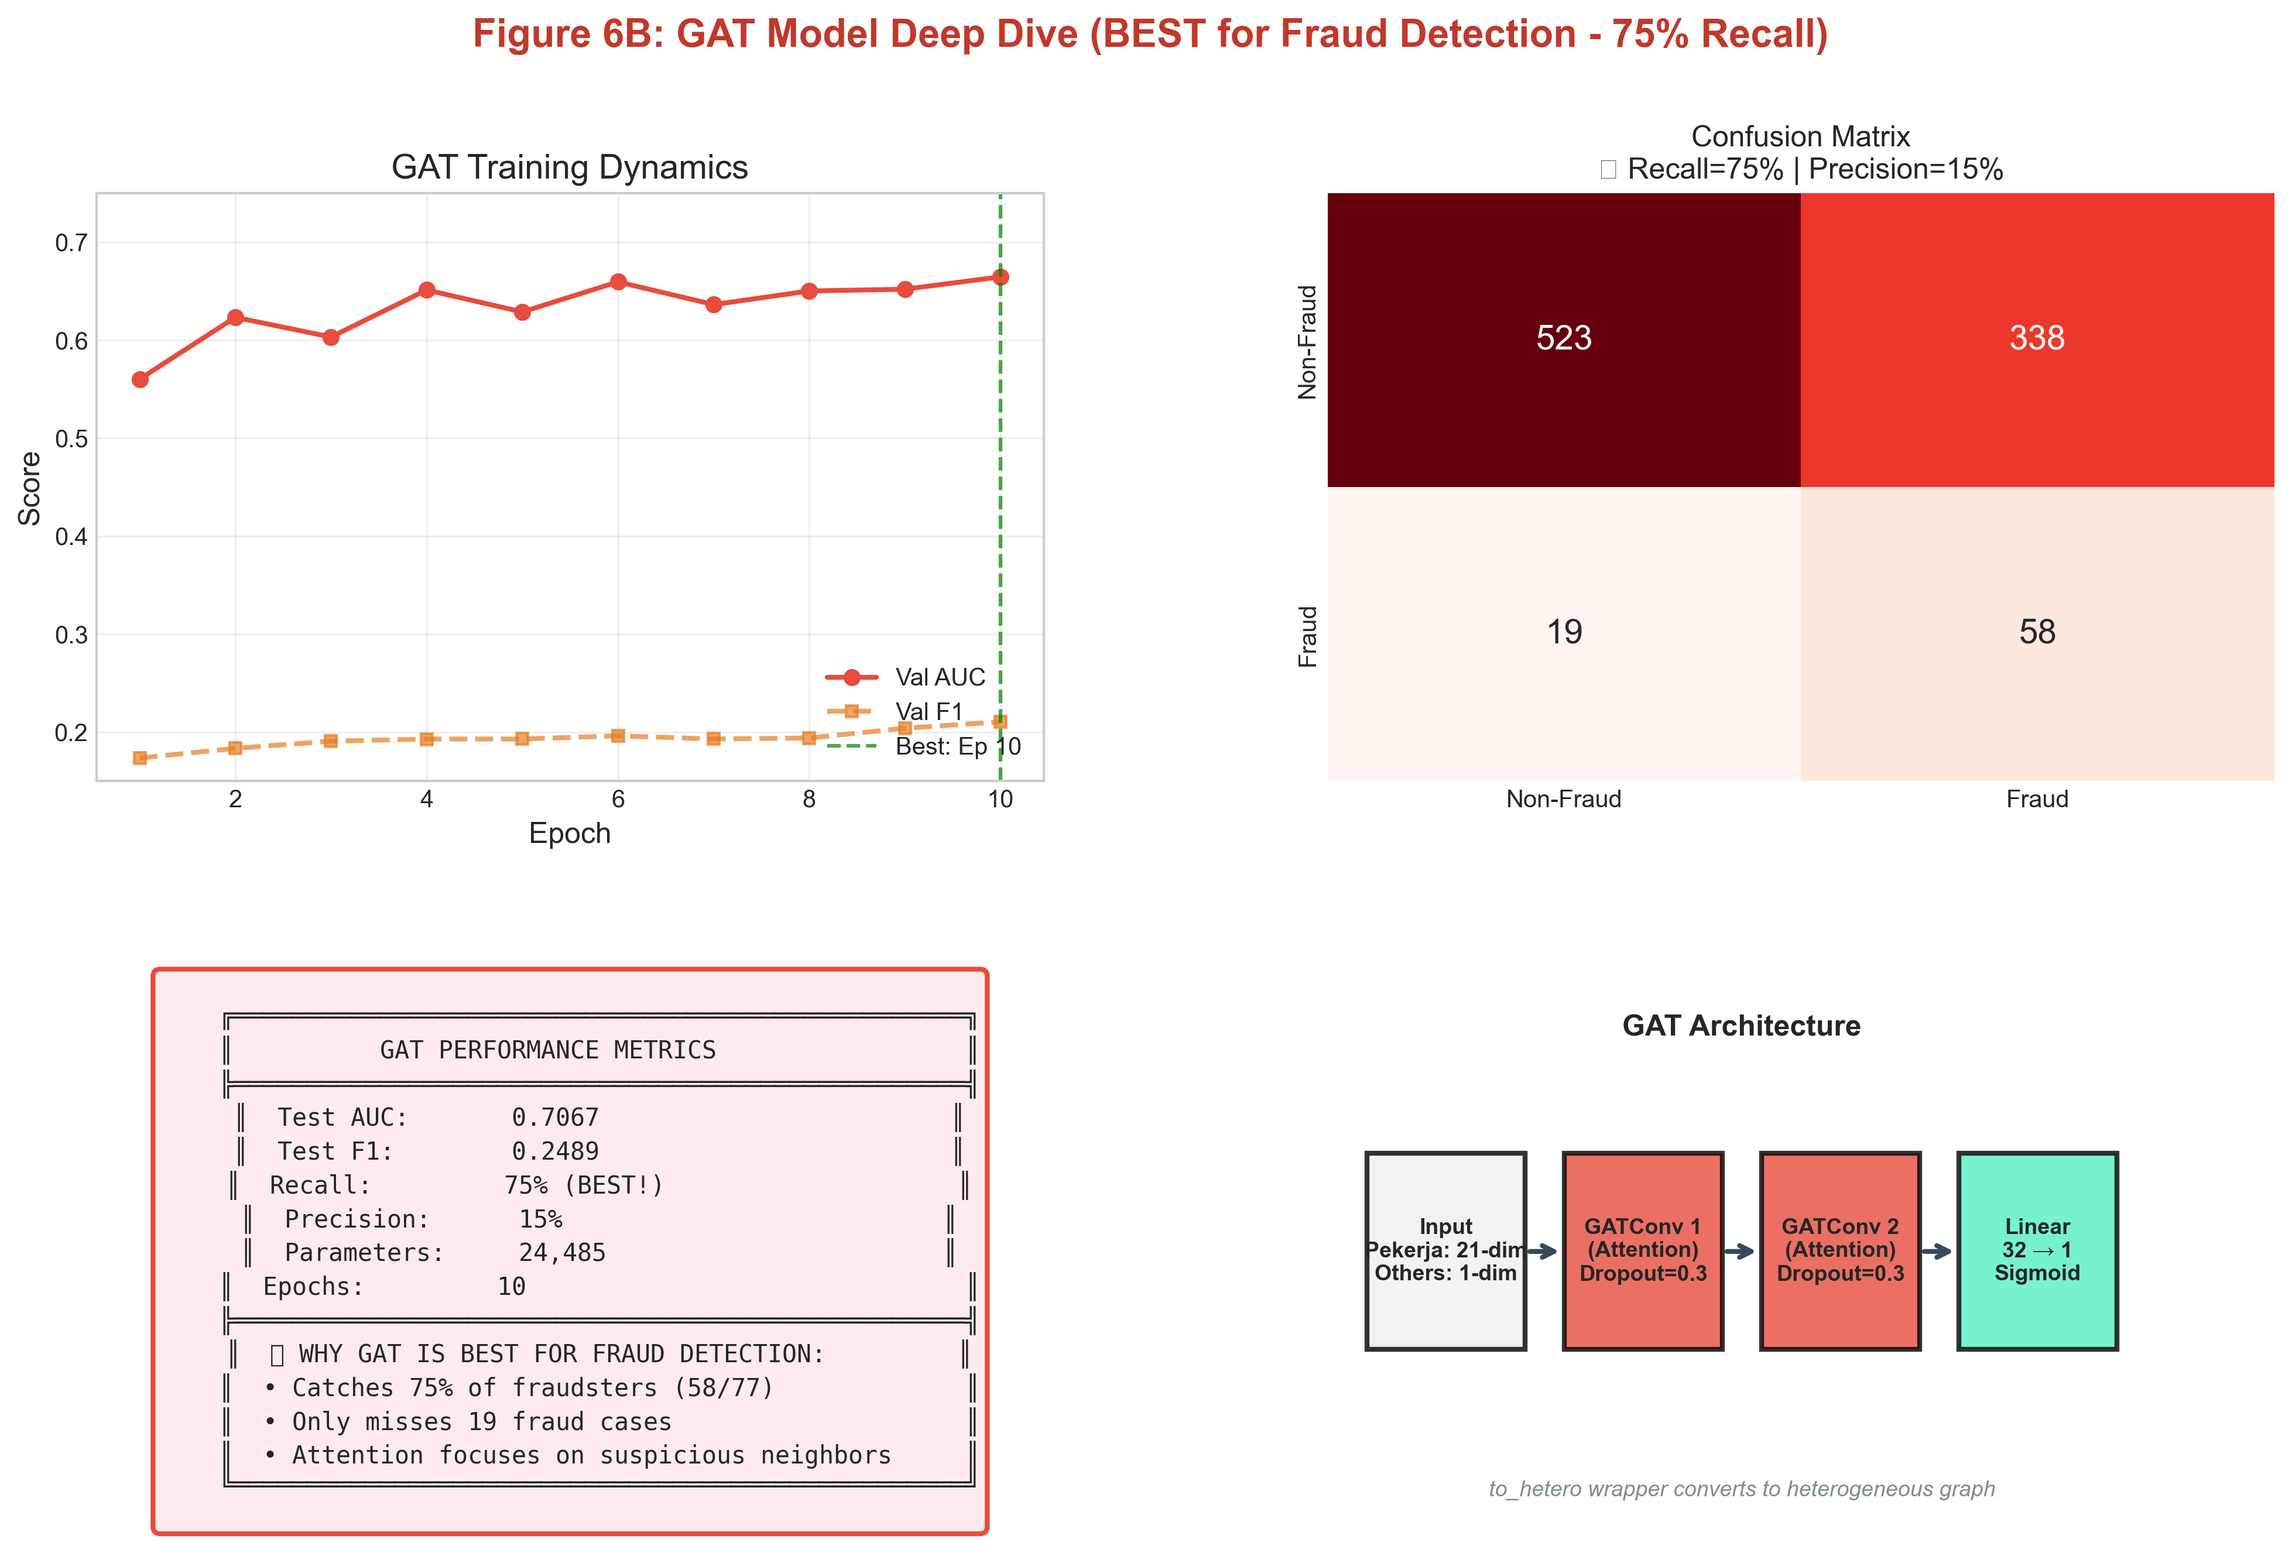
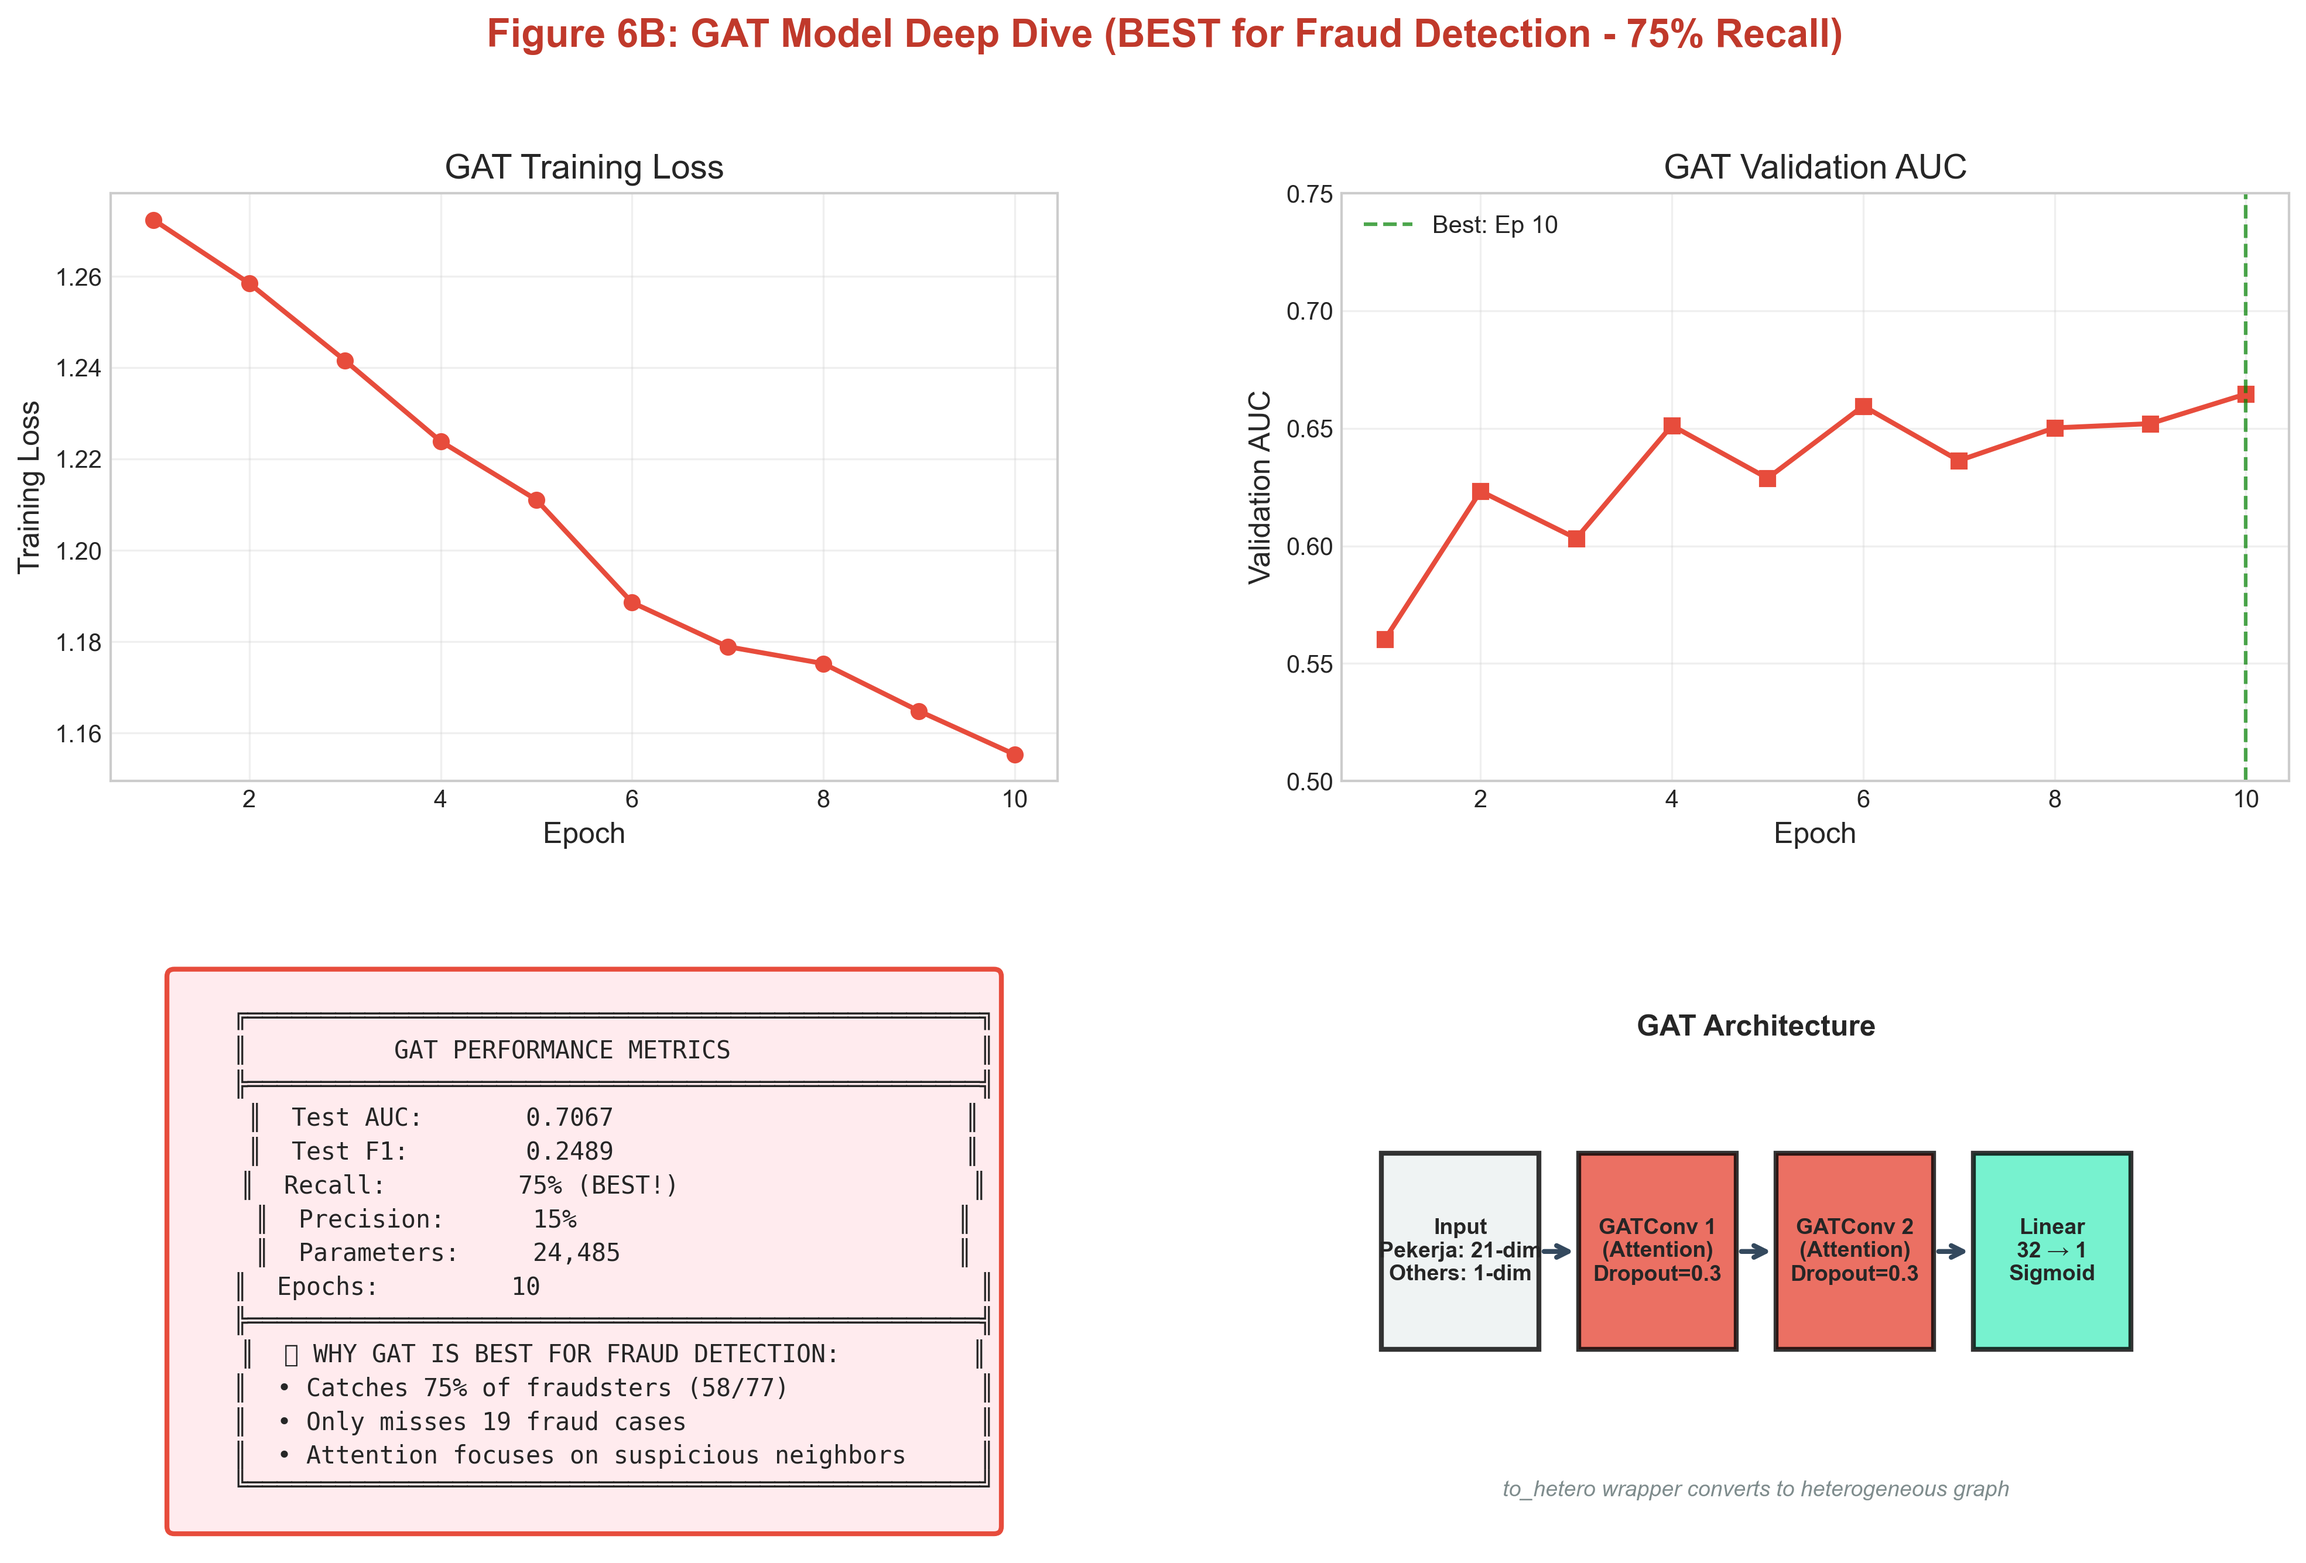
Standardize HGT and GAT deep dives with matching 2x2 layout including training loss

diff --git a/notebook_v1/17_experiment_visualizations.py b/notebook_v1/17_experiment_visualizations.py
@@ -73,6 +73,7 @@ TRAINING_DATA = {
         'epochs': list(range(1, 11)),
         'val_auc': [0.5603, 0.6233, 0.6032, 0.6512, 0.6288, 0.6595, 0.6363, 0.6502, 0.6520, 0.6646],
         'val_f1': [0.1736, 0.1834, 0.1908, 0.1929, 0.1930, 0.1962, 0.1930, 0.1940, 0.2040, 0.2105],
+        'loss': [1.2724, 1.2585, 1.2416, 1.2239, 1.2111, 1.1886, 1.1789, 1.1752, 1.1648, 1.1553],
     },
     'Transformer': {
         'epochs': list(range(1, 11)),
@@ -300,40 +301,95 @@ def plot_complexity_performance():
 # FIGURE 6: HGT Deep Dive (Best AUC Model)
 # ============================================================================
 def plot_hgt_deep_dive():
-    fig, axes = plt.subplots(1, 3, figsize=(15, 4.5))
+    """HGT deep dive - BEST AUC model"""
+    fig = plt.figure(figsize=(16, 10))
     
+    gs = fig.add_gridspec(2, 2, hspace=0.3, wspace=0.3)
     data = TRAINING_DATA['HGT']
     
-    # Loss curve
-    ax = axes[0]
-    ax.plot(data['epochs'], data['loss'], 'r-o', linewidth=2, markersize=5)
-    ax.set_xlabel('Epoch')
-    ax.set_ylabel('Training Loss')
-    ax.set_title('HGT Training Loss')
-    ax.grid(True, alpha=0.3)
+    # Top Left: Training Loss
+    ax1 = fig.add_subplot(gs[0, 0])
+    ax1.plot(data['epochs'], data['loss'], 'o-', linewidth=2, markersize=6, color='#e74c3c')
+    ax1.set_xlabel('Epoch')
+    ax1.set_ylabel('Training Loss')
+    ax1.set_title('HGT Training Loss')
+    ax1.grid(True, alpha=0.3)
     
-    # Val AUC curve
-    ax = axes[1]
-    ax.plot(data['epochs'], data['val_auc'], 'b-s', linewidth=2, markersize=5)
+    # Top Right: Val AUC curve
+    ax2 = fig.add_subplot(gs[0, 1])
+    ax2.plot(data['epochs'], data['val_auc'], 's-', linewidth=2, markersize=6, color=COLORS['HGT'])
     best_epoch = np.argmax(data['val_auc']) + 1
-    ax.axvline(x=best_epoch, color='green', linestyle='--', alpha=0.7, label=f'Best Epoch: {best_epoch}')
-    ax.set_xlabel('Epoch')
-    ax.set_ylabel('Validation AUC')
-    ax.set_title('HGT Validation AUC')
-    ax.legend()
-    ax.grid(True, alpha=0.3)
+    ax2.axvline(x=best_epoch, color='green', linestyle='--', alpha=0.7, label=f'Best: Ep {best_epoch}')
+    ax2.set_xlabel('Epoch')
+    ax2.set_ylabel('Validation AUC')
+    ax2.set_title('HGT Validation AUC')
+    ax2.legend()
+    ax2.set_ylim(0.68, 0.75)
+    ax2.grid(True, alpha=0.3)
     
-    # Final confusion matrix
-    ax = axes[2]
+    # Bottom Left: Metrics + Confusion Matrix
+    ax3 = fig.add_subplot(gs[1, 0])
+    ax3.axis('off')
+    
     cm = CONFUSION_MATRICES['HGT']
-    sns.heatmap(cm, annot=True, fmt='d', cmap='Greens', ax=ax,
-                xticklabels=['Non-Fraud', 'Fraud'],
-                yticklabels=['Non-Fraud', 'Fraud'],
-                cbar=False)
-    ax.set_title(f'HGT Confusion Matrix\n(Test AUC={ALL_MODELS["HGT"]["auc"]:.4f})')
+    tn, fp, fn, tp = cm[0,0], cm[0,1], cm[1,0], cm[1,1]
+    recall = tp / (tp + fn)
+    precision = tp / (tp + fp)
     
-    plt.suptitle('Figure 6: HGT Model Deep Dive (Best AUC: 0.7417)', fontsize=14, y=1.05)
-    plt.tight_layout()
+    metrics_text = f"""
+    ╔══════════════════════════════════════════════════╗
+    ║          HGT PERFORMANCE METRICS                 ║
+    ╠══════════════════════════════════════════════════╣
+    ║  Test AUC:       {ALL_MODELS['HGT']['auc']:.4f} (BEST!)                  ║
+    ║  Test F1:        {ALL_MODELS['HGT']['f1']:.4f}                        ║
+    ║  Recall:         {recall:.0%}                           ║
+    ║  Precision:      {precision:.0%} (BEST!)                    ║
+    ║  Parameters:     {ALL_MODELS['HGT']['params']:,}                      ║
+    ║  Epochs:         15                              ║
+    ╠══════════════════════════════════════════════════╣
+    ║  Confusion Matrix:  TN={tn} FP={fp}              ║
+    ║                     FN={fn} TP={tp}              ║
+    ╠══════════════════════════════════════════════════╣
+    ║  🎯 WHY HGT HAS BEST AUC:                        ║
+    ║  • Type-specific attention per edge type         ║
+    ║  • Native heterogeneous graph support            ║
+    ║  • Higher precision = fewer false alarms         ║
+    ╚══════════════════════════════════════════════════╝
+    """
+    ax3.text(0.5, 0.5, metrics_text, fontsize=10, ha='center', va='center',
+             transform=ax3.transAxes, family='monospace',
+             bbox=dict(boxstyle='round', facecolor='#e8f5e9', edgecolor='#1abc9c', linewidth=2))
+    
+    # Bottom Right: Architecture diagram
+    ax4 = fig.add_subplot(gs[1, 1])
+    ax4.set_xlim(0, 14)
+    ax4.set_ylim(0, 6)
+    ax4.axis('off')
+    
+    boxes = [
+        ((0.5, 2), 2, 2, '#ecf0f1', 'Input\nPekerja: 21-dim\nOthers: 1-dim'),
+        ((3, 2), 2, 2, '#ffeaa7', 'Linear\nProjection\n→ 64-dim'),
+        ((5.5, 1.5), 2, 3, '#1abc9c', 'HGTConv 1\n4 Heads\nType-Specific'),
+        ((8, 2), 2, 2, '#1abc9c', 'HGTConv 2\n4 Heads'),
+        ((10.5, 2), 2, 2, '#55efc4', 'Linear\n64 → 1\nSigmoid'),
+    ]
+    
+    for (x, y), w, h, color, text in boxes:
+        rect = Rect((x, y), w, h, facecolor=color, edgecolor='black', linewidth=2, alpha=0.8)
+        ax4.add_patch(rect)
+        ax4.text(x + w/2, y + h/2, text, ha='center', va='center', fontsize=8, fontweight='bold')
+    
+    arrows = [(2.5, 3), (5, 3), (7.5, 3), (10, 3)]
+    for x, y in arrows:
+        ax4.annotate('', xy=(x + 0.5, y), xytext=(x, y), 
+                     arrowprops=dict(arrowstyle='->', lw=2, color='#34495e'))
+    
+    ax4.text(6.5, 5.2, 'HGT Architecture', fontsize=12, fontweight='bold', ha='center')
+    ax4.text(6.5, 0.5, 'Native heterogeneous graph transformer (not to_hetero wrapper)', 
+             fontsize=9, ha='center', style='italic', color='#7f8c8d')
+    
+    plt.suptitle('Figure 6: HGT Model Deep Dive (BEST AUC: 0.7417)', 
+                 fontsize=16, y=0.98, color='#1abc9c', fontweight='bold')
     plt.savefig(f"{OUTPUT_DIR}/fig06_hgt_deep_dive.png")
     plt.close()
     print("✓ fig06_hgt_deep_dive.png")
@@ -350,36 +406,34 @@ def plot_gat_deep_dive():
     
     data = TRAINING_DATA['GAT']
     
-    # Top Left: Training curves (AUC and F1)
+    # Top Left: Training Loss
     ax1 = fig.add_subplot(gs[0, 0])
-    ax1.plot(data['epochs'], data['val_auc'], 'o-', linewidth=2, markersize=6, 
-             color=COLORS['GAT'], label='Val AUC')
-    ax1.plot(data['epochs'], data['val_f1'], 's--', linewidth=2, markersize=5, 
-             color='#e67e22', alpha=0.7, label='Val F1')
-    best_epoch = np.argmax(data['val_auc']) + 1
-    ax1.axvline(x=best_epoch, color='green', linestyle='--', alpha=0.7, label=f'Best: Ep {best_epoch}')
+    ax1.plot(data['epochs'], data['loss'], 'o-', linewidth=2, markersize=6, color='#e74c3c')
     ax1.set_xlabel('Epoch')
-    ax1.set_ylabel('Score')
-    ax1.set_title('GAT Training Dynamics')
-    ax1.legend(loc='lower right')
-    ax1.set_ylim(0.15, 0.75)
+    ax1.set_ylabel('Training Loss')
+    ax1.set_title('GAT Training Loss')
     ax1.grid(True, alpha=0.3)
     
-    # Top Right: Confusion matrix
+    # Top Right: Val AUC curve
     ax2 = fig.add_subplot(gs[0, 1])
+    ax2.plot(data['epochs'], data['val_auc'], 's-', linewidth=2, markersize=6, color=COLORS['GAT'])
+    best_epoch = np.argmax(data['val_auc']) + 1
+    ax2.axvline(x=best_epoch, color='green', linestyle='--', alpha=0.7, label=f'Best: Ep {best_epoch}')
+    ax2.set_xlabel('Epoch')
+    ax2.set_ylabel('Validation AUC')
+    ax2.set_title('GAT Validation AUC')
+    ax2.legend()
+    ax2.set_ylim(0.5, 0.75)
+    ax2.grid(True, alpha=0.3)
+    
+    # Bottom Left: Metrics + Confusion Matrix
+    ax3 = fig.add_subplot(gs[1, 0])
+    ax3.axis('off')
+    
     cm = CONFUSION_MATRICES['GAT']
-    sns.heatmap(cm, annot=True, fmt='d', cmap='Reds', ax=ax2,
-                xticklabels=['Non-Fraud', 'Fraud'],
-                yticklabels=['Non-Fraud', 'Fraud'],
-                annot_kws={'fontsize': 14}, cbar=False)
     tn, fp, fn, tp = cm[0,0], cm[0,1], cm[1,0], cm[1,1]
     recall = tp / (tp + fn)
     precision = tp / (tp + fp)
-    ax2.set_title(f'Confusion Matrix\n🔴 Recall={recall:.0%} | Precision={precision:.0%}', fontsize=12)
-    
-    # Bottom Left: Metrics summary
-    ax3 = fig.add_subplot(gs[1, 0])
-    ax3.axis('off')
     
     metrics_text = f"""
     ╔══════════════════════════════════════════════════╗
